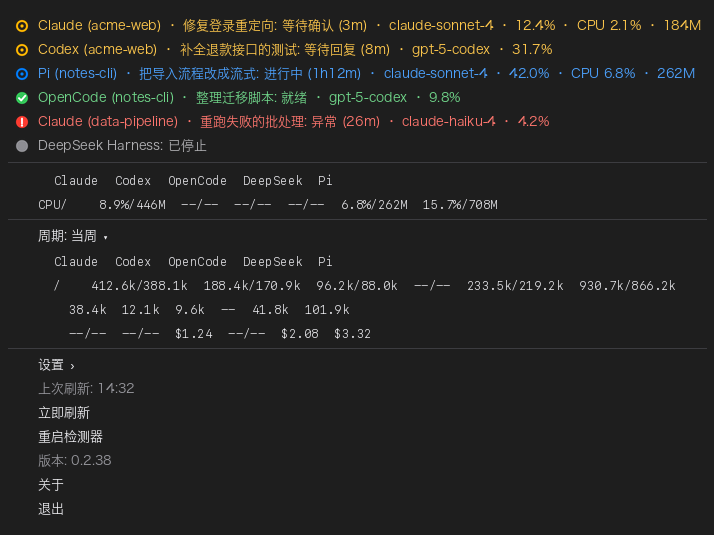
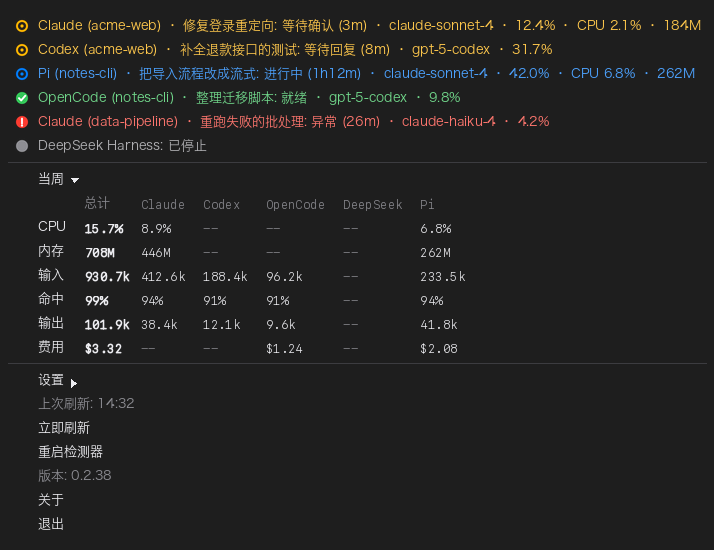
docs: describe the merged resource and usage table
Both READMEs described two stacked tables whose columns never lined up, and
the menu images still showed the old `--/--` placeholders.

The usage section now describes one table — metric rows, the total next to
the row name, `--` placeholders and a semibold total — and says that CPU,
memory and the usage rows keep their own switches. The menu images were
re-rendered with the merged table and the same example sessions.

diff --git a/README.en.md b/README.en.md
@@ -12,7 +12,7 @@ Source and releases: <https://github.com/DuRunzhe/AgentIndicator>
 
 ### Tray menu
 
-Every row leads with its six-state lamp and takes the lamp's colour; the CPU/memory summary, the token table and Settings follow.
+Every row leads with its six-state lamp and takes the lamp's colour; the resource and usage table and Settings follow.
 
 ![Tray menu, light](docs/images/menu-light.png)
 
@@ -251,14 +251,14 @@ agent-status-indicator --check-update
 - `--version` / `-V`: prints the version (e.g. `agent-status-indicator 0.2.38-alpha.4`) without starting the tray.
 - `--help` / `-h`: prints every option without starting the tray; an unrecognized option is refused with exit code 2 instead of falling through to the tray path, which aborts inside AppKit when the process has no bundle.
 - `--diagnose`: prints the detected agents, sessions and states without starting the tray.
-- `--diagnose-usage [--usage-period week|month] [--render]`: prints the token table for the current window (JSON, or the exact menu rows with `--render`) without starting the tray.
+- `--diagnose-usage [--usage-period week|month] [--render]`: prints the usage rows for the current window (JSON, or the exact menu rows with `--render`) without starting the tray.
 - `--diagnose-deepseek-desktop`: diagnoses only the DeepSeek Harness desktop app — the host process it was recognized as, the `DSH_HOME` in use, the conversations read, and what one scan of that cache costs (cold and steady state) — without starting the tray.
 - `--debug-ui`: debug mode; writes the tray UI state to `~/.agent-status-indicator-ui.json`.
 - `--check-update`: asks GitHub for the newest release and prints the result without starting the tray.
 - Click the tray icon to open the menu: every row reads `Kind (project) · title` (Claude, Codex, ChatGPT, OpenCode, DeepSeek Harness and Pi alike; a row with no title keeps `Kind (project)`), ordered “waiting for confirmation → waiting for reply → working → ready” with model, context, uptime and CPU/memory usage; clicking a live instance jumps to its terminal, browser session or DeepSeek Harness desktop window. Each row leads with a status lamp: waiting for confirmation and waiting for reply are an amber ring with its centre dot, working the same ring in blue, ready a green disc with a check, stopped a plain grey disc and error a red disc with an exclamation. The row text takes the lamp's colour, darkened on a light menu and lifted on a dark one, clearing 4.5:1 either way. The menu bar icon draws the same lamp; while an agent is live only its centre dot breathes, on a two-second beat, with no change in size or hue. An empty session list shows the same ring in the neutral grey.
 - Notifications are disabled by default. Enable them in Settings and choose whether to notify for confirmation, reply, finished turns and automatic confirmation mode. “Turn finished” is a one-shot notice at the moment a row goes from *working* to *ready*, so it has no 0/60/180 s reminder stages.
-- A “resource summary” sits below the session list and above Settings: a leading `CPU/memory` stub labels the value row, the first value column totals every agent, followed by one column each for Claude / Codex / OpenCode / DeepSeek / Pi. The column names are on the first row and their `CPU/memory` on the second, side by side. Both rows use a monospaced font so the columns line up; an agent that is not running still shows `--/--` as a placeholder. Sessions of one host (ChatGPT and the DeepSeek desktop) are de-duplicated by process so they are not summed once per conversation, and ChatGPT folds into the Codex column. It can be turned off with the “Resource summary” toggle in Settings.
-- A token table sits below the resource summary: a `today / this week / this month` switch above it (one row, click to advance), a header row of `Input/Hit`, `Output` and `Cost`, one row per agent (Claude / Codex / OpenCode / DeepSeek / Pi) and a total row for the selected window. Every number is recomputed from the agents' own session records — nothing extra is written to disk. Codex differs its cumulative `token_count` counter and reads the thread totals from `state_*.sqlite`; Claude de-duplicates transcript `usage` blocks by message id; Pi de-duplicates by response id and reads the cost it recorded; OpenCode answers with one aggregate query over `opencode.db` (its `cost` is a real amount); the DeepSeek projection only carries a per-conversation total, so a conversation counts in the window where it was last active. Cost is a real amount only for OpenCode and Pi — the other records carry no billing field and show `--/--`. Output has no cache to hit — every output token is decoded and the caching providers offer lives on the input side — so that column carries the count alone. The per-file parse is cached in memory and invalidated by modification time and length, so a refresh costs about 2 ms once the logs are parsed. Turn the table off with the "Token usage" display option.
+- A **resource and usage table** sits below the session list. Rows are metrics — `CPU`, `Memory`, `Input`, `Hit`, `Output`, `Cost` — and the columns run from the row name to **Total** and then one column each for Claude / Codex / OpenCode / DeepSeek / Pi. The total sits right next to the row name so the sum is read first; the header and the `--` placeholders are drawn in a lighter grey, the total column is semibold with monospaced digits, so every figure lines up. The resource rows are live values summed over the agent's whole process tree (macOS reads `pcpu`/`rss` from the existing `ps` sample, Windows/Linux reuse the refreshed `sysinfo` snapshot) and each one has its own switch in Settings; the usage rows come from the selected window, switched by the `today / this week / this month ▾` row above the header. `Hit` is the share of the input served from cache — a percentage, not two numbers in one cell. Sessions of one host (ChatGPT and the DeepSeek Harness desktop) are de-duplicated by process, ChatGPT folds into the Codex column, and those host rows plus every DeepSeek session keep their CPU and memory in the summary only. An agent that is not running still keeps its column and reads `--`, so the column count never jumps. The resource rows and the usage rows can be turned off separately in Settings and share one set of column widths.
+- The usage rows are recomputed from the agents' own session records — nothing extra is written to disk. Codex differs its cumulative `token_count` counter and reads the thread totals from `state_*.sqlite`; Claude de-duplicates transcript `usage` blocks by message id; Pi de-duplicates by response id and reads the cost it recorded; OpenCode answers with one aggregate query over `opencode.db` (its `cost` is a real amount); the DeepSeek projection only carries a per-conversation total, so a conversation counts in the window where it was last active. Cost is a real amount only for OpenCode and Pi — the other records carry no billing field and read `--`. Output has no cache to hit, since every output token is decoded and the cache providers offer lives on the input side. The per-file parse is cached in memory and invalidated by modification time and length, so a refresh costs about 2 ms once the logs are parsed.
 - Settings includes ten display options (duration, model, context percentage/used/total, CPU, memory, resource summary, token usage, stopped agents), language, start-at-login and DeepSeek browser tab reuse. CPU and memory are summed over the session's whole process tree (macOS reads `pcpu`/`rss` from the existing `ps` sample, Windows/Linux reuse the refreshed `sysinfo` snapshot), with no extra process spawned. A GUI host that serves several sessions from one process — ChatGPT and the DeepSeek Harness desktop — reports host-level figures that cannot be attributed to a single session, and every DeepSeek row is treated the same way: they show no CPU or memory on the session row, and the figures appear only in the summary. Conversation display ranges are two independent settings — "ChatGPT conversation range" and "DeepSeek Harness conversation range" — each 15 minutes, 1 hour, 12 hours, 24 hours (default) or all conversations. They are independent in function and in data: persisted as separate keys (`conversation_window`, `deepseek_desktop_window`) and applied to their own conversations, so changing one never moves the other. A conversation that is working, waiting for the user or failed always keeps its row.
 - Click the Claude context collector row in Settings to install or uninstall it. Installation configures Claude's `statusLine`, preserving and forwarding an existing command; uninstalling restores the previous configuration.
 - The About panel is a regular titled window that stacks the icon, name, version, a one-line product description, the update button, the “Get the alpha version” link, the “Project Home / Report an Issue / Releases” links, the copyright and, at the very bottom, the centered “Close” button. It checks GitHub for a newer release every time it opens; when one exists the button becomes “Update to x.y.z”, and installing shows a progress window before the app restarts itself. The alpha link re-runs the check on the alpha channel — pre-releases included — with no key equivalent, so the stable update button keeps the user's attention. All four link rows share the system link colour, carry no underline, and every gap in the panel is a multiple of four points.
@@ -383,7 +383,7 @@ These are acceptance targets; the current release workflow does not automate mea
 - [x] Native notifications for waiting states with 0/60/180 s reminders; clicking focuses the terminal or the DeepSeek browser session
 - [x] Completion notifications: a one-shot notice when a session goes from *working* to *ready*, with its own switch under Settings → Notifications
 - [x] Precise Terminal/iTerm tab focus by TTY on macOS
-- [x] Native settings menu, ten display options (including CPU/memory, the per-agent resource summary and the token usage table) and macOS login-startup settings
+- [x] Native settings menu, ten display options (including CPU/memory, the resource and usage table) and macOS login-startup settings
 - [x] Token usage table (input/hit, output, cost) per agent with a today/this-week/this-month switch and a total row, recomputed from the agents' own records with no extra storage
 - [x] macOS LaunchAgent, Windows Startup and Linux XDG autostart entries
 - [ ] Precise focus of existing terminal windows on Windows/Linux (implemented: Windows restores and foregrounds the owning terminal window via Win32, Linux locates the terminal emulator window along the process tree; tick after on-device verification)
